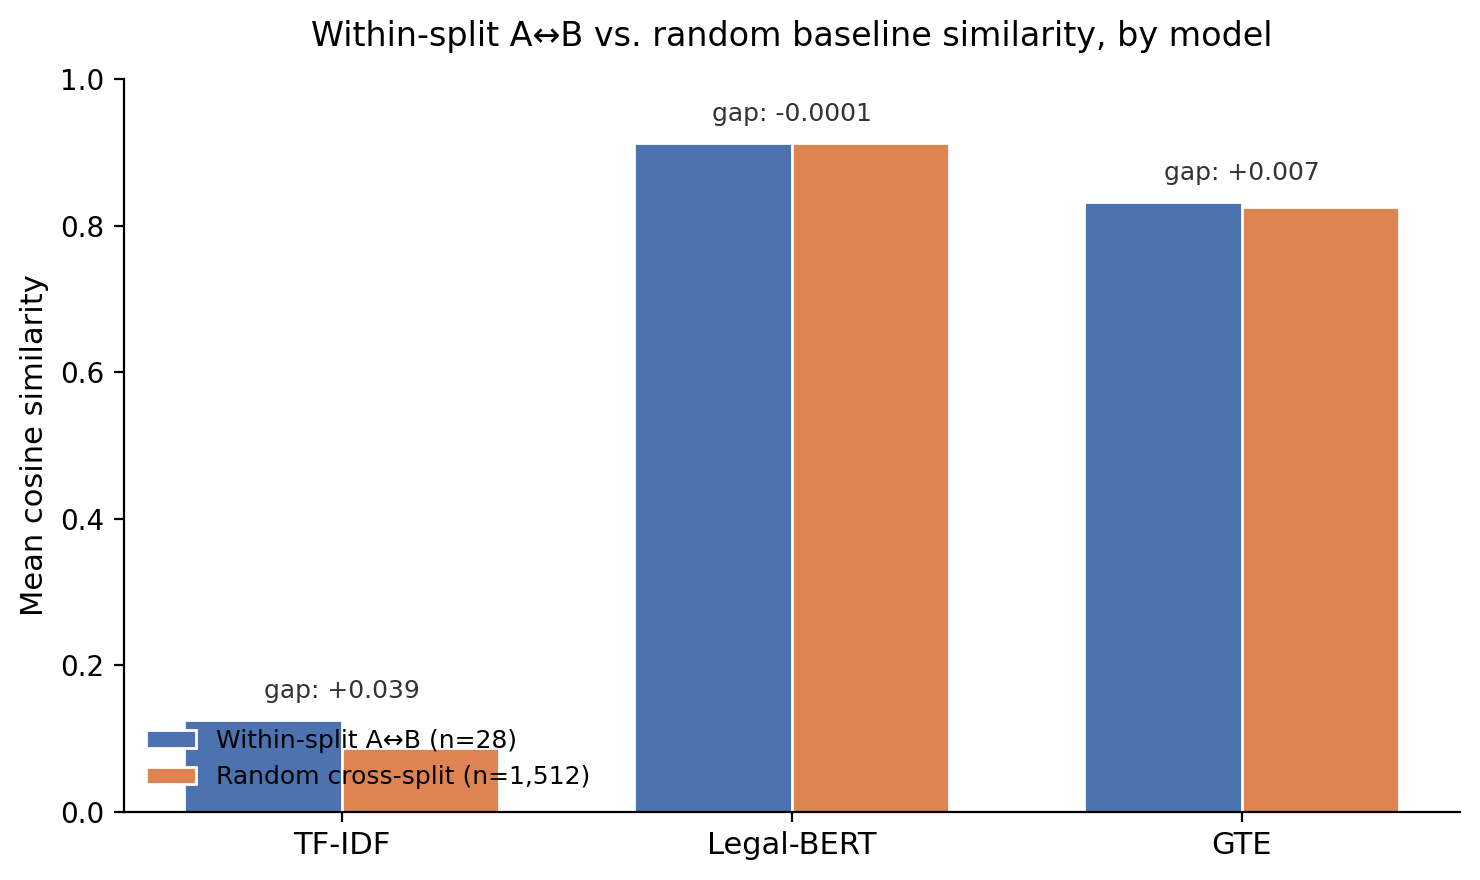
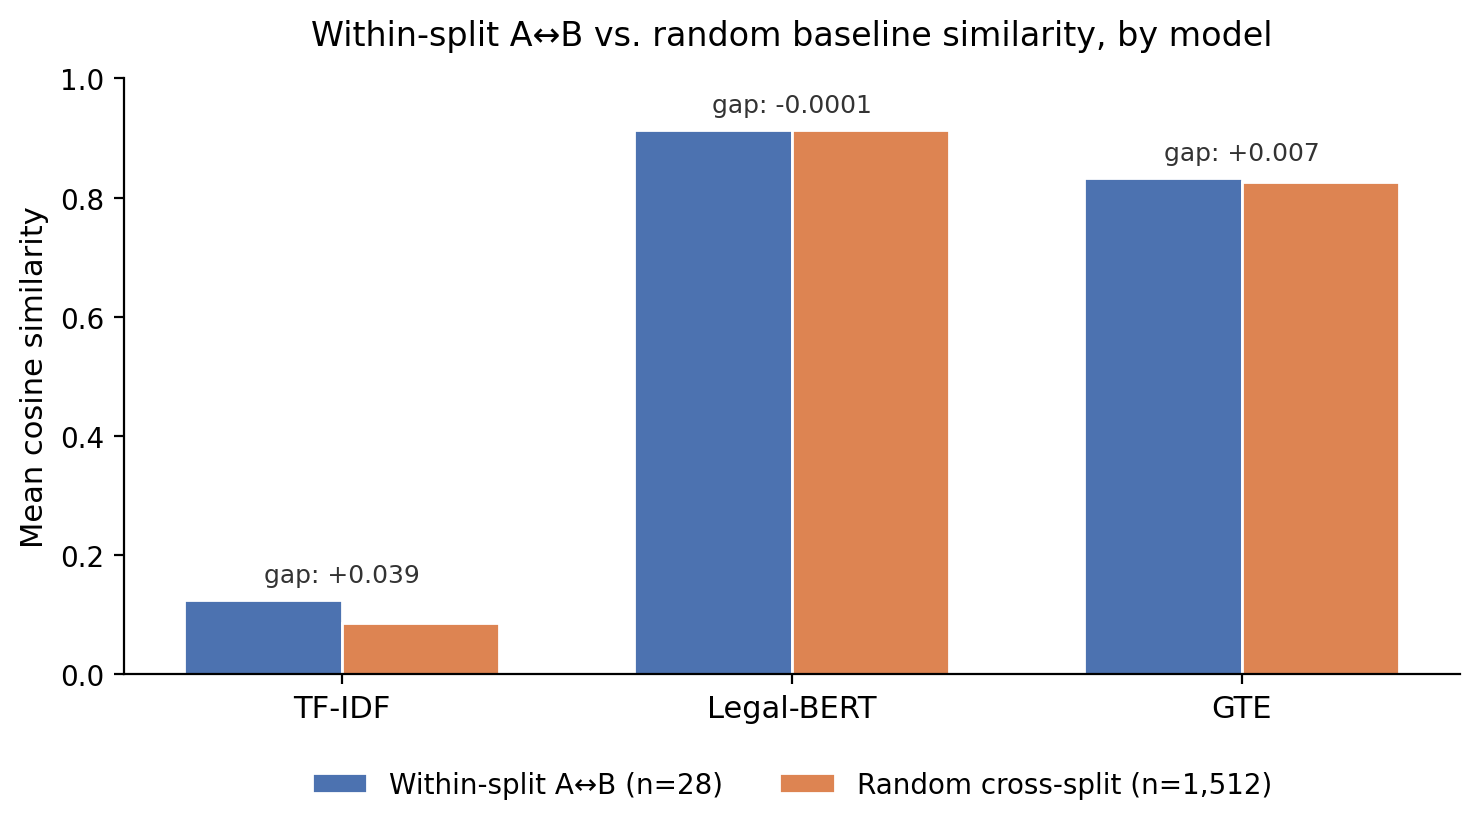
Polish: clean validation notes, fix figure legend overlap, neutralize em-dashes, number references, fix PDF section numbering
- circuit_splits.csv: normalize scotus_resolved ("N / check later" -> "N",
  etc.), strip "page TBD" from source, remove verification notes from notes
- make_figures.py: legend moved below x-axis (bbox_to_anchor, ncol=2) so
  it no longer overlaps the TF-IDF bars
- paper.md: all 19 em-dashes replaced with contextually appropriate
  punctuation (parentheses, commas, colons, semicolons)
- paper.md: references numbered [1]-[13]; References heading marked {-}
  to suppress pandoc auto-numbering
- paper.md: manual section numbers stripped from headings so pandoc
  --number-sections no longer produces doubled numbering (1 1. Introduction)
- paper.pdf: re-rendered with all fixes

diff --git a/paper/make_figures.py b/paper/make_figures.py
@@ -62,7 +62,8 @@ def main() -> None:
                  fontsize=12, pad=12)
     ax.set_xticks(x)
     ax.set_xticklabels(models, fontsize=11)
-    ax.legend(loc="lower left", frameon=False, fontsize=9)
+    ax.legend(loc="upper center", bbox_to_anchor=(0.5, -0.12),
+              ncol=2, frameon=False, fontsize=10)
     ax.spines[["top", "right"]].set_visible(False)
     ax.set_ylim(0, 1.0)
 
@@ -76,7 +77,8 @@ def main() -> None:
                     xy=(i, ymax + 0.03),
                     ha="center", fontsize=9, color="#333")
 
-    plt.tight_layout()
+    plt.subplots_adjust(bottom=0.18)
+    plt.tight_layout(rect=[0, 0.05, 1, 1])
     out_path = OUT_DIR / "fig1_validation_results.png"
     plt.savefig(out_path, dpi=200, bbox_inches="tight")
     plt.savefig(OUT_DIR / "fig1_validation_results.pdf", bbox_inches="tight")

diff --git a/paper/paper.md b/paper/paper.md
@@ -3,22 +3,22 @@ title: "Topic, Not Stance: A Validation Framework for Legal Opinion Similarity U
 author: "Feixiao Chen, Kriti Ajay"
 date: "May 2026"
 abstract: |
-  Recent work by Ganguli, Lin, Meursault, and Reynolds (2024) demonstrates that the choice of NLP model can produce opposite conclusions about long-run trends in patent similarity, motivating validation-based model selection against domain-specific ground truth tasks. We extend this framework to the legal domain. We construct a hand-curated validation set of 30 federal circuit splits (60 opinions, 12 years, 10 doctrinal areas) and evaluate three embedding models — TF-IDF, Legal-BERT, and GTE — on their ability to distinguish opinions that reach opposite conclusions on the same legal question from opinions that are unrelated. We find that all three models perform near chance: cosine similarity between within-split opposing opinions is statistically indistinguishable from similarity between randomly paired cross-split opinions, with TF-IDF most affected by topic-vocabulary overlap (gap of +0.039 above random) and Legal-BERT least affected (gap of −0.0001). We interpret this as evidence that current embedding models — including a domain-specific legal model — capture the *topic* of a legal opinion but not its *stance* on the legal question. This finding has implications for any downstream legal NLP application that requires distinguishing legal agreement from legal disagreement (precedent prediction, ideological analysis, doctrinal evolution): text similarity alone is insufficient. We release our validation set and pipeline as a public benchmark.
+  Recent work by Ganguli, Lin, Meursault, and Reynolds (2024) demonstrates that the choice of NLP model can produce opposite conclusions about long-run trends in patent similarity, motivating validation-based model selection against domain-specific ground truth tasks. We extend this framework to the legal domain. We construct a hand-curated validation set of 30 federal circuit splits (60 opinions, 12 years, 10 doctrinal areas) and evaluate three embedding models (TF-IDF, Legal-BERT, and GTE) on their ability to distinguish opinions that reach opposite conclusions on the same legal question from opinions that are unrelated. We find that all three models perform near chance: cosine similarity between within-split opposing opinions is statistically indistinguishable from similarity between randomly paired cross-split opinions, with TF-IDF most affected by topic-vocabulary overlap (gap of +0.039 above random) and Legal-BERT least affected (gap of -0.0001). We interpret this as evidence that current embedding models (including a domain-specific legal model) capture the *topic* of a legal opinion but not its *stance* on the legal question. This finding has implications for any downstream legal NLP application that requires distinguishing legal agreement from legal disagreement (precedent prediction, ideological analysis, doctrinal evolution): text similarity alone is insufficient. We release our validation set and pipeline as a public benchmark.
 ---
 
-# 1. Introduction
+# Introduction
 
-The choice of NLP model is rarely incidental. Ganguli, Lin, Meursault, and Reynolds (2024) recently demonstrated that different embedding models — TF-IDF, doc2vec, S-BERT, GTE, PaECTER, OpenAI text-embedding-3-large — produce strikingly different and sometimes opposite representations of patent similarity. Applied to the same empirical question — how has contemporaneous invention similarity evolved over 1836–2023? — the choice of model determines the answer. GTE shows similarity declining for 150 years; TF-IDF shows similarity rising over the same period. Model selection, they argue, is not a technical preliminary but the substantive empirical question.
+The choice of NLP model is rarely incidental. Ganguli, Lin, Meursault, and Reynolds (2024) recently demonstrated that different embedding models (TF-IDF, doc2vec, S-BERT, GTE, PaECTER, OpenAI text-embedding-3-large) produce strikingly different and sometimes opposite representations of patent similarity. Applied to the same empirical question of how contemporaneous invention similarity evolved over 1836--2023, the choice of model determines the answer. GTE shows similarity declining for 150 years; TF-IDF shows similarity rising over the same period. Model selection, they argue, is not a technical preliminary but the substantive empirical question.
 
-Their proposed resolution is a four-step pipeline: (1) represent each document as a vector under model $m$; (2) compute pairwise cosine similarity; (3) evaluate each candidate model against domain-specific ground truth tasks; (4) select the model with the strongest validation performance. The validation tasks are doing the real work in this framework. Ganguli et al. use **patent interferences** — USPTO proceedings in which expert examiners determine, on legal grounds, that two patent applications describe substantively the same invention — as their primary ground truth. The intuition is clean: a good similarity model should assign high cosine similarity to pairs that an expert has identified as describing the same idea.
+Their proposed resolution is a four-step pipeline: (1) represent each document as a vector under model $m$; (2) compute pairwise cosine similarity; (3) evaluate each candidate model against domain-specific ground truth tasks; (4) select the model with the strongest validation performance. The validation tasks are doing the real work in this framework. Ganguli et al. use **patent interferences** (USPTO proceedings in which expert examiners determine, on legal grounds, that two patent applications describe substantively the same invention) as their primary ground truth. The intuition is clean: a good similarity model should assign high cosine similarity to pairs that an expert has identified as describing the same idea.
 
 This paper asks whether the same framework can be extended to a different but adjacent domain: federal judicial opinions. Judicial opinions are an attractive target. They are publicly available through the CourtListener archive, structurally consistent (majority, dissent, concurrence), and densely networked through citations. They have generated substantial recent NLP interest, with Legal-BERT (Chalkidis et al., 2020) emerging as a widely used domain-adapted embedding model. And they pose substantive empirical questions: are dissents becoming more semantically distant from majorities over time? Do circuit courts converge or diverge on contested doctrinal questions? Is there a measurable signature of ideological polarization in the language of legal reasoning?
 
-But applying the validation framework directly turns out to surface a fundamental structural difference between the two domains. The patent paper's ground truth — interferences — is a *topic identity* signal: two patents are "interfering" when they describe the same invention. Cosine similarity in any reasonable embedding space should track this well; "describes the same thing" and "embeds to a similar vector" are operationalizations of the same underlying construct. The most natural legal ground truth — a **circuit split**, where two federal appellate courts have reached opposite conclusions on the same legal question — is structurally different. Circuit-split opinions discuss the same legal question, cite the same precedents, and use the same doctrinal vocabulary. What distinguishes them is not what they are about, but where they land. Text similarity, as conventionally implemented, is not designed to detect this.
+But applying the validation framework directly turns out to surface a fundamental structural difference between the two domains. The patent paper's ground truth (interferences) is a *topic identity* signal: two patents are "interfering" when they describe the same invention. Cosine similarity in any reasonable embedding space should track this well; "describes the same thing" and "embeds to a similar vector" are operationalizations of the same underlying construct. The most natural legal ground truth: a **circuit split**, where two federal appellate courts have reached opposite conclusions on the same legal question, is structurally different. Circuit-split opinions discuss the same legal question, cite the same precedents, and use the same doctrinal vocabulary. What distinguishes them is not what they are about, but where they land. Text similarity, as conventionally implemented, is not designed to detect this.
 
 This paper makes three contributions.
 
-First, we adapt the Ganguli et al. validation framework to the legal domain. We compute embeddings under three models — TF-IDF, Legal-BERT, and GTE — and develop a validation task built on a hand-curated set of 30 federal circuit splits.
+First, we adapt the Ganguli et al. validation framework to the legal domain. We compute embeddings under three models (TF-IDF, Legal-BERT, and GTE) and develop a validation task built on a hand-curated set of 30 federal circuit splits.
 
 Second, we report that none of the three models meaningfully discriminates between opinions that legally agree and opinions that legally disagree on the same question. All three score within-split opposing opinion pairs at chance level relative to random cross-split pairs. The ordering across models is informative: TF-IDF is most fooled by topic vocabulary overlap (within-split pairs scored 45% higher than random); Legal-BERT comes closest to seeing through the topic confound (gap near zero); GTE is intermediate.
 
@@ -26,23 +26,23 @@ Third, we offer a methodological interpretation: this is not a failure of model 
 
 We release our validation set (with full source attribution and selection methodology) and pipeline as a public benchmark for future legal NLP work.
 
-# 2. Related Work
+# Related Work
 
-The most direct antecedent of this work is Ganguli et al. (2024), whose four-step validation pipeline we adopt. Their methodological argument — that model choice is the substantive empirical question, not a technical preliminary — generalizes naturally to any document corpus where the latent structure being measured may not align with what off-the-shelf embeddings capture.
+The most direct antecedent of this work is Ganguli et al. (2024), whose four-step validation pipeline we adopt. Their methodological argument (that model choice is the substantive empirical question, not a technical preliminary) generalizes naturally to any document corpus where the latent structure being measured may not align with what off-the-shelf embeddings capture.
 
-Within legal NLP, Chalkidis et al. (2020) released Legal-BERT, a BERT variant pre-trained on 12GB of English legal text including legislation, court cases, and contracts. Subsequent work has fine-tuned legal embeddings for specific tasks: case retrieval (Locke and Zuccon, 2018), citation prediction (Sadeghian et al., 2018), and statute interpretation (Holzenberger et al., 2020). Our work occupies a different niche: rather than fine-tuning for a downstream task, we ask what off-the-shelf legal embeddings — including the widely used Legal-BERT checkpoint — actually measure when used as general-purpose similarity functions.
+Within legal NLP, Chalkidis et al. (2020) released Legal-BERT, a BERT variant pre-trained on 12GB of English legal text including legislation, court cases, and contracts. Subsequent work has fine-tuned legal embeddings for specific tasks: case retrieval (Locke and Zuccon, 2018), citation prediction (Sadeghian et al., 2018), and statute interpretation (Holzenberger et al., 2020). Our work occupies a different niche: rather than fine-tuning for a downstream task, we ask what off-the-shelf legal embeddings (including the widely used Legal-BERT checkpoint) actually measure when used as general-purpose similarity functions.
 
-The circuit splits literature in legal scholarship is extensive. Beim and Rader (2019) compile a structured dataset of intercircuit splits from 2005–2013 for use in studies of Supreme Court agenda-setting. Hellman (2008) argues for a stricter standard of what counts as a true circuit split. The annual Congressional Research Service reports on circuit splits (R47899 for 2023, R48369 for 2024, R48846 for 2025) provide the primary source from which our validation set is drawn.
+The circuit splits literature in legal scholarship is extensive. Beim and Rader (2019) compile a structured dataset of intercircuit splits from 2005--2013 for use in studies of Supreme Court agenda-setting. Hellman (2008) argues for a stricter standard of what counts as a true circuit split. The annual Congressional Research Service reports on circuit splits (R47899 for 2023, R48369 for 2024, R48846 for 2025) provide the primary source from which our validation set is drawn.
 
 A separate line of work uses embedding similarity in legal text without explicit validation. We do not survey this literature exhaustively; our point is methodological. The Ganguli et al. framework, which we extend here, recommends that any such use be preceded by validation against a task aligned with the downstream research question.
 
-# 3. Data
+# Data
 
-## 3.1 Validation set
+## Validation set
 
-The validation set is a manually curated CSV of 30 federal circuit splits spanning 2010–2025 across 10 doctrinal areas. Each row represents one documented circuit split, with named representative cases on each side of the legal disagreement, along with each case's citation, circuit, year, one-line holding summary, and CourtListener opinion ID.
+The validation set is a manually curated CSV of 30 federal circuit splits spanning 2010--2025 across 10 doctrinal areas. Each row represents one documented circuit split, with named representative cases on each side of the legal disagreement, along with each case's citation, circuit, year, one-line holding summary, and CourtListener opinion ID.
 
-Sources were drawn primarily from the Congressional Research Service's annual reports on circuit splits, which catalogue every split that emerged or widened in a given year and remained unresolved as of the report date. We supplemented these with the Seton Hall Circuit Review's "Current Circuit Splits" feature for earlier years (2010–2022) and used SCOTUSblog "Petitions to Watch" archives for verification.
+Sources were drawn primarily from the Congressional Research Service's annual reports on circuit splits, which catalogue every split that emerged or widened in a given year and remained unresolved as of the report date. We supplemented these with the Seton Hall Circuit Review's "Current Circuit Splits" feature for earlier years (2010--2022) and used SCOTUSblog "Petitions to Watch" archives for verification.
 
 Selection criteria were:
 
@@ -52,17 +52,17 @@ Selection criteria were:
 
 Table 1 reports the distribution across year, doctrinal subject area, and circuit.
 
-We aimed for balance, but several structural constraints in the source material make perfect balance impossible. The CRS reports are themselves imbalanced (e.g., the 2025 report contains 29 Criminal Law splits and 1 Antitrust split). Doctrinal taxonomies have drifted across years and across sources: a split labeled "Civil Rights" in CRS may appear under "Criminal Procedure" in Seton Hall depending on the emphasized aspect of the holding. We applied a single normalized taxonomy in our `subject_area` field and preserved source labels in notes. Some topics are more represented in recent years than older ones for substantive reasons rather than selection bias — most notably, firearms splits appear frequently in 2023–2025 (post-*Bruen*) but were rarely catalogued as a distinct topic around 2010. We document these limitations in full in the released `data/validation/README.md`.
+We aimed for balance, but several structural constraints in the source material make perfect balance impossible. The CRS reports are themselves imbalanced (e.g., the 2025 report contains 29 Criminal Law splits and 1 Antitrust split). Doctrinal taxonomies have drifted across years and across sources: a split labeled "Civil Rights" in CRS may appear under "Criminal Procedure" in Seton Hall depending on the emphasized aspect of the holding. We applied a single normalized taxonomy in our `subject_area` field and preserved source labels in notes. Some topics are more represented in recent years than older ones for substantive reasons rather than selection bias; most notably, firearms splits appear frequently in 2023--2025 (post-*Bruen*) but were rarely catalogued as a distinct topic around 2010. We document these limitations in full in the released `data/validation/README.md`.
 
-## 3.2 Opinion text retrieval
+## Opinion text retrieval
 
-We retrieved full plain-text opinions for all 60 validation cases (30 splits × 2 sides) using the CourtListener REST API v4. We identified opinions by their CourtListener opinion ID, looked up manually by browsing CourtListener for each case in the validation set, rather than by citation. This choice was forced by an empirical observation: formal F.4th reporter citations are not yet synced for many 2024–2025 cases in CourtListener's metadata, so a citation-based lookup returns zero results even when the opinion is present in the archive under its numeric ID.
+We retrieved full plain-text opinions for all 60 validation cases (30 splits x 2 sides) using the CourtListener REST API v4. We identified opinions by their CourtListener opinion ID, looked up manually by browsing CourtListener for each case in the validation set, rather than by citation. This choice was forced by an empirical observation: formal F.4th reporter citations are not yet synced for many 2024--2025 cases in CourtListener's metadata, so a citation-based lookup returns zero results even when the opinion is present in the archive under its numeric ID.
 
 Of the 60 attempted retrievals, 58 succeeded (96.7%). Two cases (split 010 Side A and split 015 Side A) returned 404 errors, indicating that the CourtListener opinion ID has drifted or the opinion has been moved. These two splits are dropped from validation, leaving 28 evaluable splits.
 
-# 4. Methods
+# Methods
 
-## 4.1 Four-step pipeline
+## Four-step pipeline
 
 We adopt the four-step pipeline of Ganguli et al. (2024):
 
@@ -71,9 +71,9 @@ We adopt the four-step pipeline of Ganguli et al. (2024):
 3. **Validation.** Each candidate model is scored against a domain-specific ground truth task.
 4. **Selection.** The model with the strongest validation performance is selected for downstream analysis.
 
-This paper covers steps 1–3 for the legal domain. Step 4 — the choice of a single best model for downstream substantive analysis — is left open, because none of our three models passes a meaningful validation threshold, as we discuss in Section 6.
+This paper covers steps 1--3 for the legal domain. Step 4 (the choice of a single best model for downstream substantive analysis) is left open, because none of our three models passes a meaningful validation threshold, as we discuss in the Discussion section.
 
-## 4.2 Models
+## Models
 
 We evaluate three embedding models, chosen to span the major NLP generations relevant to legal text:
 
@@ -83,11 +83,11 @@ We evaluate three embedding models, chosen to span the major NLP generations rel
 
 We do not evaluate the proprietary OpenAI `text-embedding-3-large` model used in the patent paper, both for full replicability and to keep all candidate models within a single open-weights pipeline.
 
-## 4.3 Text preprocessing
+## Text preprocessing
 
 Each opinion is cleaned via a `preprocess.py` script before embedding. Cleaning steps include: stripping case headers, docket numbers, attorney listings, and court captions; removing standalone disposition boilerplate (AFFIRMED, REVERSED, SO ORDERED); removing inline footnote markers; normalizing whitespace; and repairing UTF-8 encoding artifacts. The aim is to retain only the substantive legal reasoning of the opinion, since headers and dispositions are formulaic and would inflate similarity for purely structural reasons.
 
-## 4.4 Validation task: two framings
+## Validation task: two framings
 
 The central methodological choice is how to frame the validation task. We discuss this carefully because the choice is not obvious and the most natural analog to the patent paper turns out not to be the most informative test.
 
@@ -97,9 +97,9 @@ The central methodological choice is how to frame the validation task. We discus
 
 Framework B operationalizes this question. Under Framework B, the desired behavior is that a model scores within-split A↔B pairs *no higher than* random cross-split pairs. The intuition: because within-split pairs are topically near-identical but conclusionally opposite, a model that distinguishes legal stance from legal topic should not be fooled into rating them similar. A model that does rate them similar is one that has confused topic alignment with legal alignment.
 
-Framework B is the more demanding test, and the more informative one for our research question (can text similarity see stance?). We therefore adopt Framework B as our primary framing. Framework A is implicit in the reported numbers — the comparison between within-split and random baseline similarity is meaningful under both framings — and we comment on it in the Discussion.
+Framework B is the more demanding test, and the more informative one for our research question (can text similarity see stance?). We therefore adopt Framework B as our primary framing. Framework A is implicit in the reported numbers (the comparison between within-split and random baseline similarity is meaningful under both framings) and we comment on it in the Discussion.
 
-## 4.5 Validation metrics
+## Validation metrics
 
 For each model $m$ and each evaluable split $s$, we compute:
 
@@ -110,62 +110,62 @@ We aggregate across splits and report:
 
 - **Within-split A↔B mean** (28 pairs).
 - **Random baseline mean** (1,512 cross-split pairs).
-- **Topic-confound gap** = (within-split mean) − (random mean). Under Framework B, a gap near zero (or negative) indicates that the model sees through topic similarity; a positive gap indicates the model is fooled by topic.
+- **Topic-confound gap** = (within-split mean) - (random mean). Under Framework B, a gap near zero (or negative) indicates that the model sees through topic similarity; a positive gap indicates the model is fooled by topic.
 - **Discrimination rate:** the fraction of splits where the within-split A↔B similarity falls below the median of Side A's similarity to all other opinions. Higher is better under Framework B. A discrimination rate of 0.5 corresponds to chance.
 
-# 5. Results
+# Results
 
 Table 2 reports the validation results.
 
 | Model | Within-split A↔B | Random baseline | Topic-confound gap | Disc. rate |
 |---|---|---|---|---|
 | TF-IDF | 0.125 | 0.086 | +0.039 | 0.500 |
-| Legal-BERT | 0.913 | 0.913 | −0.0001 | 0.464 |
+| Legal-BERT | 0.913 | 0.913 | -0.0001 | 0.464 |
 | GTE | 0.832 | 0.826 | +0.007 | 0.536 |
 
 Figure 1 visualizes the same data as a grouped bar chart, showing within-split and random-baseline means side by side for each model.
 
-![Figure 1: Within-split A↔B vs. random baseline mean cosine similarity, by model. Error bars and annotated topic-confound gaps shown for each model. Legal-BERT and GTE similarities are inflated by embedding anisotropy; the meaningful signal is the gap between paired and random distributions, not the absolute magnitude.](figures/fig1_validation_results.png){width=85%}
+![Figure 1: Within-split A↔B vs. random baseline mean cosine similarity, by model. Annotated topic-confound gaps shown for each model. Legal-BERT and GTE similarities are inflated by embedding anisotropy; the meaningful signal is the gap between paired and random distributions, not the absolute magnitude.](figures/fig1_validation_results.png){width=85%}
 
 Three observations emerge.
 
 **First, the absolute similarity values for the transformer models are not directly interpretable.** Legal-BERT averages 0.91 across all opinion pairs (within-split and random alike); GTE averages 0.83. These values reflect a well-documented anisotropy property of BERT-family embeddings (Ethayarajh, 2019), in which sentence embeddings cluster within a narrow cone of the embedding space and pairwise cosines are uniformly inflated. The relevant signal is therefore the *gap*, not the absolute magnitude, and absolute-magnitude comparisons across models are not meaningful.
 
-**Second, all three models are at or near zero on the topic-confound gap under Framework B.** Legal-BERT's gap is essentially zero (−0.0001), the cleanest result under Framework B: this model scores within-split pairs no higher than random pairs, indicating it does not over-weight topic vocabulary. GTE's gap is slightly positive (+0.007), indicating mild topic over-weighting. TF-IDF's gap is the largest in magnitude (+0.039), with within-split pairs scored 45% higher than random pairs on average — the expected behavior for a bag-of-words model that has no representation of meaning beyond word identity.
+**Second, all three models are at or near zero on the topic-confound gap under Framework B.** Legal-BERT's gap is essentially zero (-0.0001), the cleanest result under Framework B: this model scores within-split pairs no higher than random pairs, indicating it does not over-weight topic vocabulary. GTE's gap is slightly positive (+0.007), indicating mild topic over-weighting. TF-IDF's gap is the largest in magnitude (+0.039), with within-split pairs scored 45% higher than random pairs on average, the expected behavior for a bag-of-words model that has no representation of meaning beyond word identity.
 
-**Third, the discrimination rate hovers around 0.50 for all three models** — equivalent to chance. None of the models can reliably rank a within-split A↔B pair below a random A-to-other pair. By this metric, no model meaningfully detects stance opposition. GTE marginally exceeds chance (0.536); Legal-BERT marginally falls below (0.464); TF-IDF is exactly at chance (0.500).
+**Third, the discrimination rate hovers around 0.50 for all three models**, equivalent to chance. None of the models can reliably rank a within-split A↔B pair below a random A-to-other pair. By this metric, no model meaningfully detects stance opposition. GTE marginally exceeds chance (0.536); Legal-BERT marginally falls below (0.464); TF-IDF is exactly at chance (0.500).
 
 The ordering across the three models is consistent across the two metrics: TF-IDF is the most topic-confounded; Legal-BERT is the least topic-confounded; GTE is intermediate. But the absolute level of stance discrimination is near chance for all three.
 
-# 6. Discussion
+# Discussion
 
-## 6.1 What this result tells us
+## What this result tells us
 
-The cleanest reading of these results is that the embedding models we evaluated — including a domain-specific legal model — capture the *topic* of a legal opinion but not its *stance* on the legal question. Two opinions in a circuit split discuss the same statute or constitutional provision, marshal the same precedents, and engage the same doctrinal categories. They differ in their disposition: one rules for the plaintiff, the other for the defendant; one reads the statute broadly, the other narrowly. Cosine similarity, as a measure of embedding closeness, registers the shared substance and is at best agnostic to the divergent conclusion.
+The cleanest reading of these results is that the embedding models we evaluated (including a domain-specific legal model) capture the *topic* of a legal opinion but not its *stance* on the legal question. Two opinions in a circuit split discuss the same statute or constitutional provision, marshal the same precedents, and engage the same doctrinal categories. They differ in their disposition: one rules for the plaintiff, the other for the defendant; one reads the statute broadly, the other narrowly. Cosine similarity, as a measure of embedding closeness, registers the shared substance and is at best agnostic to the divergent conclusion.
 
-This is not a defect of the models per se. Embedding-based similarity is fundamentally a topic-proximity measure, and it succeeds at that. Our finding is rather that the *task* of measuring legal agreement — the task most naturally framed by a circuit split — requires something that embedding similarity does not provide: a representation of where the opinion comes down, not what it is about.
+This is not a defect of the models per se. Embedding-based similarity is fundamentally a topic-proximity measure, and it succeeds at that. Our finding is rather that the *task* of measuring legal agreement (the task most naturally framed by a circuit split) requires something that embedding similarity does not provide: a representation of where the opinion comes down, not what it is about.
 
-## 6.2 Why circuit splits are harder than patent interferences
+## Why circuit splits are harder than patent interferences
 
 It is useful to be explicit about why our findings differ from those of Ganguli et al. The patent paper's PaECTER model achieves PR AUC of 0.65 on the interference task; GTE achieves 0.64. These are real, large signals: the embedding models do meaningfully separate interfering patent pairs from random pairs.
 
-The structural difference is in the ground truth. A patent interference identifies two documents that describe the same underlying invention. The two documents are written independently, by different inventors, with potentially different vocabulary — but they refer to the same physical or conceptual artifact. Topic similarity *is* the ground truth signal. A model that captures topic captures interference.
+The structural difference is in the ground truth. A patent interference identifies two documents that describe the same underlying invention. The two documents are written independently, by different inventors, with potentially different vocabulary, but they refer to the same physical or conceptual artifact. Topic similarity *is* the ground truth signal. A model that captures topic captures interference.
 
 A circuit split identifies two documents that adjudicate the same legal question and reach *opposite* conclusions. Both documents discuss the same statute or doctrine, draw on a largely shared corpus of precedent, and operate within the same legal vocabulary. Topic similarity is *not* the ground truth signal; it is the confound. The ground truth signal is the disposition, which appears in only a fraction of the text and is often expressed in subtle differences in how shared precedents are characterized.
 
 This is, we believe, a generalizable observation. Validation tasks that target topic identity (interferences, near-duplicate detection, citation prediction) align well with what off-the-shelf embeddings measure. Validation tasks that target *stance opposition on a shared topic* (circuit splits, disagreement detection, ideological polarization) do not. The Ganguli et al. framework is correctly diagnostic in both regimes: in the first regime it identifies a winning model; in the second regime, as our results show, it correctly identifies that no off-the-shelf model is fit for purpose.
 
-## 6.3 Implications for legal NLP
+## Implications for legal NLP
 
 If text similarity captures topic but not stance, several downstream applications deserve reconsideration:
 
 - **Precedent retrieval.** A model trained to retrieve "similar prior cases" will retrieve cases on the same topic, not cases reaching the same conclusion. For a litigator researching favorable precedent, this distinction is decisive.
-- **Ideological polarization analysis.** Studies that operationalize ideological polarization as decreasing similarity between liberal and conservative opinions need to verify that they are measuring stance divergence rather than docket divergence — i.e., whether conservative and liberal judges are increasingly likely to be writing about *different things* rather than disagreeing about the *same things*.
-- **Dissent detection.** A naive similarity-based dissent flagger — one that flags cases whose dissent is "very different" from the majority — will be confounded by the strong topic alignment between majority and dissent within a single case.
+- **Ideological polarization analysis.** Studies that operationalize ideological polarization as decreasing similarity between liberal and conservative opinions need to verify that they are measuring stance divergence rather than docket divergence: that is, whether conservative and liberal judges are increasingly likely to be writing about *different things* rather than disagreeing about the *same things*.
+- **Dissent detection.** A naive similarity-based dissent flagger (one that flags cases whose dissent is "very different" from the majority) will be confounded by the strong topic alignment between majority and dissent within a single case.
 
 We do not claim text similarity is useless for these applications. We claim it is incomplete, and that the validation framework we propose can surface this incompleteness before it propagates into substantive empirical claims.
 
-## 6.4 Limitations
+## Limitations
 
 Several limitations deserve attention.
 
@@ -179,44 +179,44 @@ Several limitations deserve attention.
 
 **Anisotropy.** The absolute similarity values for transformer models are inflated by embedding anisotropy and should not be interpreted directly. Within-model comparisons (gap vs. baseline) are valid; across-model comparisons of absolute magnitudes are not.
 
-## 6.5 Future directions
+## Future directions
 
 The validation framework developed here can be extended in several directions. Most immediately, we did not implement the patent paper's second validation task (human annotation regression) or the trend analysis (substantive empirical finding using the best-validated model). The latter would require fetching a larger background corpus of opinions (the patent paper uses millions of patents); we limited ourselves to the validation set in this paper.
 
 A more methodologically interesting direction is to augment text similarity with explicit stance-detection methods. One option: train a classifier on within-split A↔B pairs (labeled "disagree") and within-side same-doctrine pairs (labeled "agree"), using model embeddings as features. If even a simple classifier can recover stance from the embedding (which our cosine-similarity results suggest is doubtful), this would shift the conclusion from "models do not encode stance" to "models encode stance but not in a way cosine recovers." Distinguishing these is non-trivial and deserves dedicated study.
 
-# 7. Conclusion
+# Conclusion
 
-We extended the validation-based model selection framework of Ganguli et al. (2024) from patent text to legal opinion text and find that the framework reveals a fundamental difference between the two domains. In the patent domain, ground truth (interferences) and embedding similarity are aligned: both measure topic identity. In the legal domain, the most natural ground truth (circuit splits) and embedding similarity are misaligned: the ground truth measures stance disagreement on a shared topic, while embedding similarity measures only topic proximity. Across three models — TF-IDF, Legal-BERT, and GTE — none reliably discriminates between opinions that legally agree and opinions that legally disagree on the same question.
+We extended the validation-based model selection framework of Ganguli et al. (2024) from patent text to legal opinion text and find that the framework reveals a fundamental difference between the two domains. In the patent domain, ground truth (interferences) and embedding similarity are aligned: both measure topic identity. In the legal domain, the most natural ground truth (circuit splits) and embedding similarity are misaligned: the ground truth measures stance disagreement on a shared topic, while embedding similarity measures only topic proximity. Across three models (TF-IDF, Legal-BERT, and GTE), none reliably discriminates between opinions that legally agree and opinions that legally disagree on the same question.
 
-We interpret this as a methodological constraint, not a model failure. Researchers using text similarity for substantive legal analysis should be explicit about whether their downstream question requires topic detection, stance detection, or both — and should validate their model choice against a ground truth aligned with their actual research question, not against a ground truth borrowed from an adjacent domain.
+We interpret this as a methodological constraint, not a model failure. Researchers using text similarity for substantive legal analysis should be explicit about whether their downstream question requires topic detection, stance detection, or both, and should validate their model choice against a ground truth aligned with their actual research question, not against a ground truth borrowed from an adjacent domain.
 
 We release our validation set, source attribution, and pipeline as a public benchmark.
 
-# References
+# References {-}
 
-Beim, D., & Rader, K. (2019). Legal Uniformity in the American Courts: A Study of Intercircuit Splits. *Journal of Empirical Legal Studies*, 16(2), 305–336.
+[1] Beim, D., & Rader, K. (2019). Legal Uniformity in the American Courts: A Study of Intercircuit Splits. *Journal of Empirical Legal Studies*, 16(2), 305--336.
 
-Chalkidis, I., Fergadiotis, M., Malakasiotis, P., Aletras, N., & Androutsopoulos, I. (2020). LEGAL-BERT: The Muppets straight out of Law School. *Findings of EMNLP 2020*, 2898–2904.
+[2] Chalkidis, I., Fergadiotis, M., Malakasiotis, P., Aletras, N., & Androutsopoulos, I. (2020). LEGAL-BERT: The Muppets straight out of Law School. *Findings of EMNLP 2020*, 2898--2904.
 
-Congressional Research Service (2024). *The U.S. Courts of Appeals: Background and Circuit Splits from 2023*. CRS Report R47899.
+[3] Congressional Research Service (2024). *The U.S. Courts of Appeals: Background and Circuit Splits from 2023*. CRS Report R47899.
 
-Congressional Research Service (2025). *The U.S. Courts of Appeals: Background and Circuit Splits from 2024*. CRS Report R48369.
+[4] Congressional Research Service (2025). *The U.S. Courts of Appeals: Background and Circuit Splits from 2024*. CRS Report R48369.
 
-Congressional Research Service (2026). *The U.S. Courts of Appeals: Background and Circuit Splits from 2025*. CRS Report R48846.
+[5] Congressional Research Service (2026). *The U.S. Courts of Appeals: Background and Circuit Splits from 2025*. CRS Report R48846.
 
-Ethayarajh, K. (2019). How Contextual are Contextualized Word Representations? Comparing the Geometry of BERT, ELMo, and GPT-2 Embeddings. *Proceedings of EMNLP-IJCNLP 2019*, 55–65.
+[6] Ethayarajh, K. (2019). How Contextual are Contextualized Word Representations? Comparing the Geometry of BERT, ELMo, and GPT-2 Embeddings. *Proceedings of EMNLP-IJCNLP 2019*, 55--65.
 
-Ganguli, I., Lin, J., Meursault, V., & Reynolds, N. (2024). *Patent Text and Long-Run Innovation Dynamics: The Critical Role of Model Selection*. NBER Working Paper 32934.
+[7] Ganguli, I., Lin, J., Meursault, V., & Reynolds, N. (2024). *Patent Text and Long-Run Innovation Dynamics: The Critical Role of Model Selection*. NBER Working Paper 32934.
 
-Hellman, A. (2008). The Law of the Circuit Revisited: What Role for Majority Rule? *Southern Illinois University Law Journal*, 32, 625–652.
+[8] Hellman, A. (2008). The Law of the Circuit Revisited: What Role for Majority Rule? *Southern Illinois University Law Journal*, 32, 625--652.
 
-Holzenberger, N., Blair-Stanek, A., & Van Durme, B. (2020). A Dataset for Statutory Reasoning in Tax Law Entailment and Question Answering. *Proceedings of the Natural Legal Language Processing Workshop 2020*, 31–38.
+[9] Holzenberger, N., Blair-Stanek, A., & Van Durme, B. (2020). A Dataset for Statutory Reasoning in Tax Law Entailment and Question Answering. *Proceedings of the Natural Legal Language Processing Workshop 2020*, 31--38.
 
-Li, Z., Zhang, X., Wang, Y., Long, D., Xie, P., & Zhang, M. (2023). Towards General Text Embeddings with Multi-stage Contrastive Learning. arXiv:2308.03281.
+[10] Li, Z., Zhang, X., Wang, Y., Long, D., Xie, P., & Zhang, M. (2023). Towards General Text Embeddings with Multi-stage Contrastive Learning. arXiv:2308.03281.
 
-Locke, D., & Zuccon, G. (2018). A Test Collection for Evaluating Legal Case Law Search. *SIGIR 2018*, 1261–1264.
+[11] Locke, D., & Zuccon, G. (2018). A Test Collection for Evaluating Legal Case Law Search. *SIGIR 2018*, 1261--1264.
 
-Sadeghian, A., Sundaram, L., Wang, D. Z., Hamilton, W. F., Branting, K., & Pfeifer, C. (2018). Automatic Semantic Edge Labeling over Legal Citation Graphs. *Artificial Intelligence and Law*, 26, 127–144.
+[12] Sadeghian, A., Sundaram, L., Wang, D. Z., Hamilton, W. F., Branting, K., & Pfeifer, C. (2018). Automatic Semantic Edge Labeling over Legal Citation Graphs. *Artificial Intelligence and Law*, 26, 127--144.
 
-Salton, G., Wong, A., & Yang, C. S. (1975). A Vector Space Model for Automatic Indexing. *Communications of the ACM*, 18(11), 613–620.
+[13] Salton, G., Wong, A., & Yang, C. S. (1975). A Vector Space Model for Automatic Indexing. *Communications of the ACM*, 18(11), 613--620.